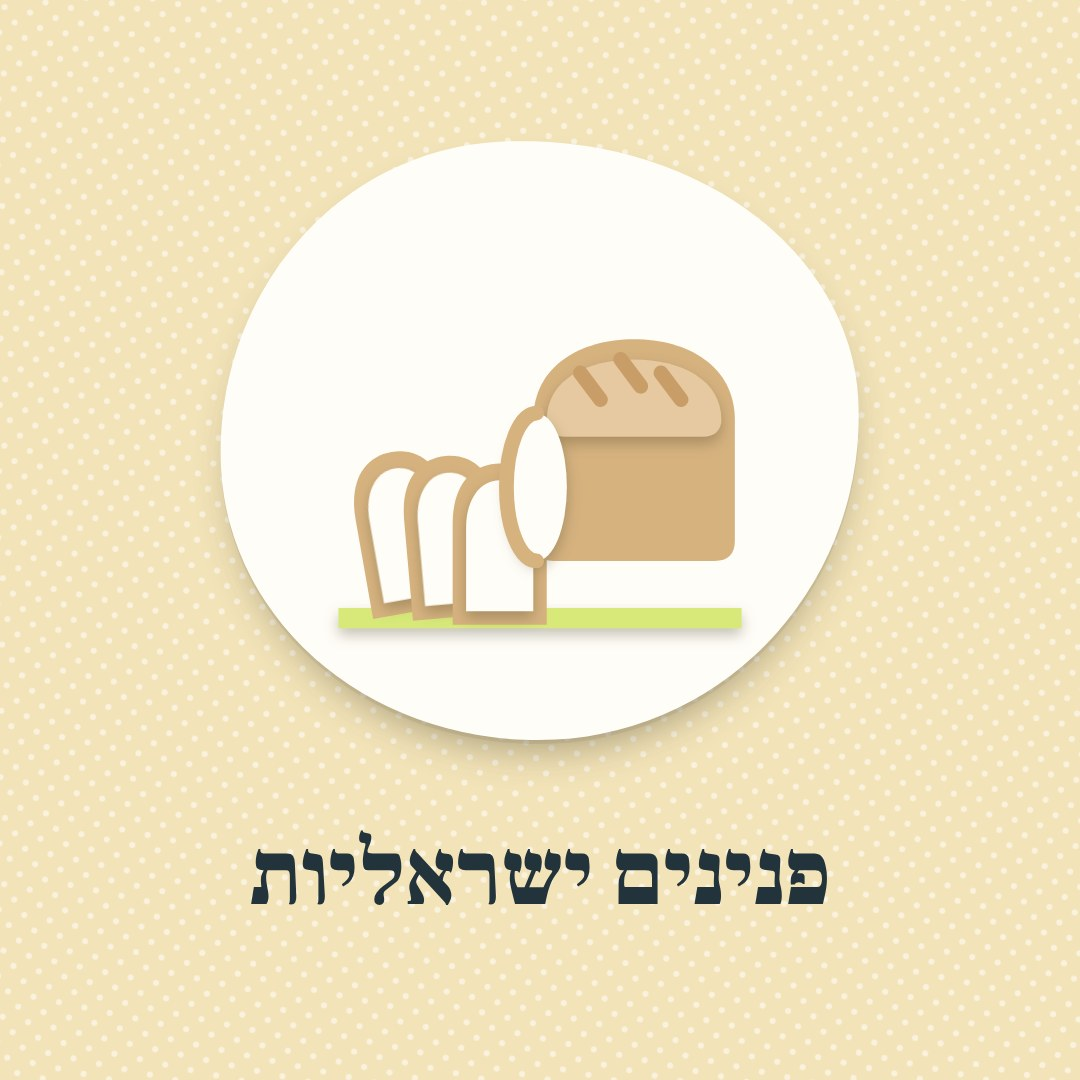
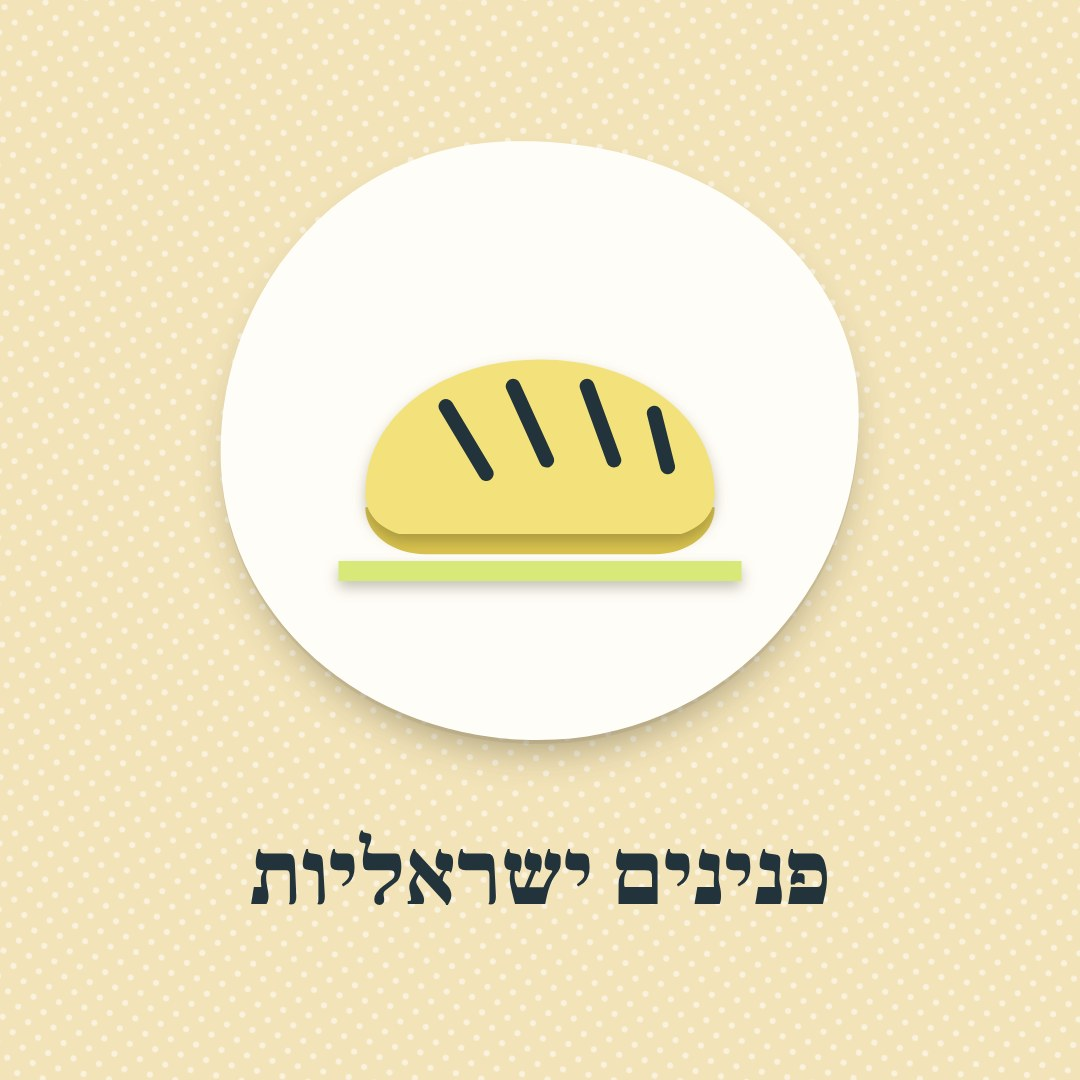
אייקון "אוכל ושתייה": כיכר לחם עם חריצים על קרש (בחירת כנרת)
הלחם החצי-פרוס לא היה ברור. תמונת השיתוף של הקטגוריה נוצרה מחדש.
CLAUDE.md מעודכן בשני העותקים.

Claude-Session: https://claude.ai/code/session_01BL4oPX6JAtJfK7HU7sB9zN

Changed region(s): [[0.3056, 0.3056, 0.7028, 0.6111]]

diff --git a/lib/illo.ts b/lib/illo.ts
@@ -1,7 +1,7 @@
 // Hand-drawn style Israeli illustrations. 64x64, fills via classes (.y yellow .l lime .s sage .c cream .n ink), outline .o
 export const ILLO: Record<string, string> = {
 acorn: `<path fill="none" style="stroke:#D6B27F" stroke-width="3" stroke-linecap="round" d="M33 17c0-5 3-9 7-11"/><path class="y" d="M17 31c0 15 6 25 15 30 9-5 15-15 15-30z"/><path d="M32 31c0 15 4 24 9 28 3-5 6-14 6-28z" fill="#E6CF64"/><path class="wd2" d="M13 31c0-9 8-15 19-15s19 6 19 15c0 2-1 3-3 3H16c-2 0-3-1-3-3z"/><circle class="n" cx="22" cy="24" r="1.5"/><circle class="n" cx="30" cy="21" r="1.5"/><circle class="n" cx="38" cy="23" r="1.5"/><circle class="n" cx="26" cy="29" r="1.5"/><circle class="n" cx="35" cy="29" r="1.5"/><circle class="n" cx="43" cy="28" r="1.5"/>`,
-bread: `<path class="l" d="M2 57h60v3H2z"/><g transform="translate(3 35) rotate(-10)"><path class="wd2" d="M0 9c0-6 3-9 7-9s7 3 7 9v15H0z"/><path class="c" d="M2 9.5c0-4 2-7 5-7s5 3 5 7V22H2z"/></g><g transform="translate(11 35) rotate(-5)"><path class="wd2" d="M0 9c0-6 3-9 7-9s7 3 7 9v15H0z"/><path class="c" d="M2 9.5c0-4 2-7 5-7s5 3 5 7V22H2z"/></g><g transform="translate(19 35.5)"><path class="wd2" d="M0 9c0-6 3-9 7-9s7 3 7 9v15H0z"/><path class="c" d="M2 9.5c0-4 2-7 5-7s5 3 5 7V22H2z"/></g><path class="wd2" d="M31 29c0-8 7-12 15-12s15 4 15 12v18c0 2-1 3-3 3H34c-2 0-3-1-3-3z"/><path class="wd" d="M33 29c0-6 6-9 13-9s13 3 13 9c0 1.5-1 2.5-2.5 2.5h-21C34 31.5 33 30.5 33 29z"/><path fill="none" style="stroke:#C99D68" stroke-width="1.6" stroke-linecap="round" d="M38 22l3 4M44 20l3 4M50 22l3 4"/><ellipse class="c" cx="31.5" cy="39" rx="4.5" ry="11"/><path fill="none" style="stroke:#D6B27F" stroke-width="1.4" d="M31.5 28a4.5 11 0 0 0 0 22"/>`,
+bread: `<path class="l" d="M2 50h60v3H2z"/><path d="M6 42c0 4 4 7 9 7h34c5 0 9-3 9-7z" fill="#D9C24E"/><path class="y" d="M6 40c0-12 12-20 26-20s26 8 26 20c0 3-2 5-5 6H11c-3-1-5-3-5-6z"/><path fill="none" stroke="#22333B" stroke-width="2.2" stroke-linecap="round" d="M18 27l6 10M28 24l5 11M39 24l4 11M49 28l2 8"/>`,
 hoopoe: `<path class="y o" d="M22 22 20 8l5 4 4-7 2 8 6-4-2 8 7-1-8 8z"/><circle class="n" cx="20" cy="8" r="1.6"/><circle class="n" cx="29" cy="5" r="1.6"/><circle class="n" cx="37" cy="9" r="1.6"/><circle class="n" cx="42" cy="16" r="1.6"/><path class="y o" d="M17 34c0-9 6-14 14-14s14 6 14 14c0 8-7 13-15 13-6 0-13-5-13-13z"/><path class="c o" d="M29 32c7-2 15 0 21 6l-4 5c-5-3-11-5-17-4z"/><path class="o" d="M35 33l-2 6M41 34l-2 6M46 37l-3 5"/><path class="n" d="M47 41l12 5-2 3-12-3z"/><path class="o" fill="none" d="M18 30Q9 32 4 39"/><circle class="n" cx="22" cy="28" r="1.6"/><path class="o" d="M27 47l-1 8M33 47l1 8M23 55h6M31 55h6"/>`,
 coffee: `<path class="o" fill="none" d="M26 6c-3 3 3 5 0 9M33 4c-3 3 3 5 0 9M40 6c-3 3 3 5 0 9"/><ellipse class="s o" cx="33" cy="52" rx="24" ry="6"/><path class="c o" d="M14 24h38l-4 22c-1 4-4 6-8 6H26c-4 0-7-2-8-6z"/><path class="o" fill="none" d="M51 29c6 0 8 3 7 7s-5 6-10 5"/><ellipse class="y o" cx="33" cy="24" rx="19" ry="5"/><path class="c" d="M33 27c-3-2-6-3-5-5 1-1 3-1 5 1 2-2 4-2 5-1 1 2-2 3-5 5z"/>`,
 wine: `<path class="s o" d="M42 10h8v10c4 3 5 7 5 12v22c0 2-1 3-3 3H40c-2 0-3-1-3-3V32c0-5 1-9 5-12z"/><rect class="c o" x="39" y="34" width="14" height="12" rx="2"/><path class="o" d="M42 40h8"/><path class="c o" d="M10 12h22c0 12-3 20-11 20S10 24 10 12z"/><path class="n" d="M12 20h18c-1 6-4 10-9 10s-8-4-9-10z"/><path class="o" d="M21 32v18M13 55c0-3 4-5 8-5s8 2 8 5z"/>`,

diff --git a/CLAUDE.md b/CLAUDE.md
@@ -23,7 +23,7 @@
 ## החלטות מוצר (מחייבות)
 
 - **אזורים:** 18 אזורים קטנים, תמיד גלויים, **לעולם לא ממוזגים ולא מוסתרים**. מקובצים ויזואלית ל-4 "עננים": צפון / מרכז / ירושלים והאזור / דרום, אבל הסינון הוא לפי האזור הקטן. האזורים הקטנים הם לב הזהות של הפרויקט.
-- **קטגוריות (11):** טבע ונוף, אוכל ושתייה, יקבים, מבשלות ומזקקות, סדנאות, סיורים ומפגשים, חקלאות, בעלי חיים, יוצרים וחנויות, תרבות, עגלות קפה, אתרי אינטרנט. (שאלה פתוחה: האם עגלות קפה נשארות קטגוריה נפרדת.) "יקבים, מבשלות ומזקקות" הופרדה מ"אוכל ושתייה" ב-25.10.2026 (כנרת): אייקון כוס יין; "אוכל ושתייה" קיבלה אייקון כיכר לחם שחציה פרוס. **אפשר לבחור כמה קטגוריות יחד** (OR). בכתובת ה-URL הרשימות מופרדות ב-`|` (לא פסיק, כי שם הקטגוריה מכיל פסיק).
+- **קטגוריות (11):** טבע ונוף, אוכל ושתייה, יקבים, מבשלות ומזקקות, סדנאות, סיורים ומפגשים, חקלאות, בעלי חיים, יוצרים וחנויות, תרבות, עגלות קפה, אתרי אינטרנט. (שאלה פתוחה: האם עגלות קפה נשארות קטגוריה נפרדת.) "יקבים, מבשלות ומזקקות" הופרדה מ"אוכל ושתייה" ב-25.10.2026 (כנרת): אייקון כוס יין; "אוכל ושתייה" קיבלה אייקון כיכר לחם עם חריצים על קרש (כנרת בחרה 25.10 בלילה מתוך 6 הצעות; הלחם החצי-פרוס לא היה ברור). **אפשר לבחור כמה קטגוריות יחד** (OR). בכתובת ה-URL הרשימות מופרדות ב-`|` (לא פסיק, כי שם הקטגוריה מכיל פסיק).
 - **תגיות על הכרטיס — רק עובדות חיוביות וידועות:** "גם למשפחות", "פתוח בשבת". כשלא ידוע או שלילי — לא מציגים כלום. ("סגור בשבת" הוסר מהכרטיס כי אין לו פילטר.) לא כותבים "בתיאום מראש" למקום מסוים; יש הערה כללית באתר לבדוק תמיד.
 - **"עוד העדפות" בפאנל הסינון:** רק שלוש: גם למשפחות / פתוח בשבת / המלצת המערכת. מתחת לכותרת משפט קטן (בלי "חשוב:", כנרת 25.10): "יכול להיות שיש עוד פנינים שמתאימות למשפחות או פתוחות בשבת ולא סווגו ככאלה, ולהפך".
 - **כותרת פאנל הקטגוריות: "מה יבוא טוב עכשיו"** (לא "מה עושים"). **אפשר לבחור כמה קטגוריות יחד** (כנרת, 25.10.2026 ערב; כמו באזורים: פנינה מתאימה אם היא באחת מהקטגוריות שנבחרו; בכתובת `?cat=א,ב`). הצ'יפ הראשון הוא **"כל הפנינים"** עם אייקון בלוט, נבחר כברירת מחדל, והוא גם הדרך לנקות את סינון הקטגוריה וההעדפות (לא את האזורים). כשנבחר אזור הוא נקרא **"כל הפנינים באזור שבחרת"**, וכשנבחרו כמה: **"כל הפנינים באזורים שבחרת"**.
